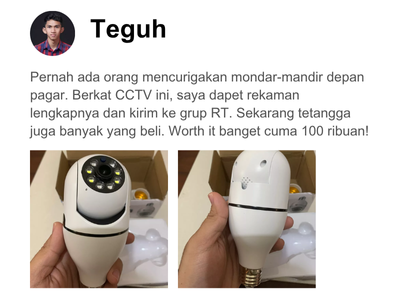
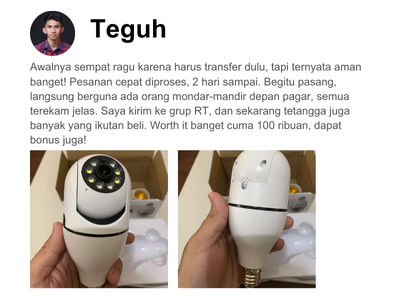
fix

Changed region(s): [[0.06, 0.21, 0.93, 0.48]]

diff --git a/src/components/FunnelPurchase.jsx b/src/components/FunnelPurchase.jsx
@@ -1,7 +1,7 @@
 import React, { useState } from "react";
 import { collection, addDoc, Timestamp } from "firebase/firestore";
 import { db } from "../firebase"; // path sesuai struktur file kamu
-const FunnelPurchase = ({ pixel, product, price , namaProduct }) => {
+const FunnelPurchase = ({ pixel, product, price, namaProduct }) => {
   const [name, setName] = useState("");
   const [whatsapp, setWhatsapp] = useState("");
   const [paymentMethod, setPaymentMethod] = useState("Bank Transfer");
@@ -126,7 +126,7 @@ const FunnelPurchase = ({ pixel, product, price , namaProduct }) => {
           />
         </div>
 
-        <h3 className="text-lg font-bold mb-3">Metode Pembayaran:</h3>
+        <h3 className="text-lg font-bold mb-2">Metode Pembayaran:</h3>
         <div className="mb-4">
           {["Bank Transfer", "COD"].map((method) => (
             <div
@@ -145,7 +145,7 @@ const FunnelPurchase = ({ pixel, product, price , namaProduct }) => {
               />
               <label
                 id="metodePayments"
-                className="cursor-pointer grid items-center"
+                className="cursor-pointer grid items-center relative"
               >
                 <img
                   src={`/images/funnel/${
@@ -154,19 +154,19 @@ const FunnelPurchase = ({ pixel, product, price , namaProduct }) => {
                   alt={method}
                   className="w-12 h-12 object-contain"
                 />
-                <span className="font-medium">
+                <span className="font-medium -mt-2">
                   {method === "COD" ? "Bayar di Tempat" : "Bank Transfer"}
                 </span>
                 {/* ✨ Badge Rekomendasi untuk Transfer */}
                 {method === "Bank Transfer" && (
-                  <span className="inline-block bg-green-100 text-green-700 text-[11px] font-bold px-3 py-[2px] rounded-md shadow-sm border border-green-600 capitalize tracking-wide">
+                  <span className="inline-block bg-redto/10 text-redto text-[11px] font-bold px-3 py-[2px] rounded-md shadow-sm border border-redto/70 capitalize tracking-wide">
                     🎁 Dapat Bonus & Potongan Ongkir
                   </span>
                 )}
 
                 {method === "COD" && (
                   <span className="inline-block bg-gray-100 text-gray-600 text-[11px] font-bold px-3 py-[2px] rounded-md shadow-sm border border-gray-400 capitalize tracking-wide">
-                    ⚠ Hanya {namaProduct} (Tanpa Bonus)
+                    ⚠ Tanpa Bonus, Ongkir Normal
                   </span>
                 )}
               </label>

diff --git a/src/components/Cctv/Footer.jsx b/src/components/Cctv/Footer.jsx
@@ -69,10 +69,14 @@ const Footer = ({
           </p>
           <p className="text-lg">Harga Promo</p>
         </div>
-        <div className="text-center text-5xl font-bold" ref={promoRef}>
+        <div className="text-center text-5xl font-bold " ref={promoRef}>
           <h1 className="text-redto">
             Rp {Math.floor(currentValue).toLocaleString("id-ID")}
           </h1>
+        </div>
+        <div className="text-center text-sm">
+          <p className="font-bold">Transfer Sekarang Dapat :</p>
+          <p className="font-semibold ">Bonus Fitting + Potongan Ongkir + Prioritas Pengiriman</p>
         </div>
         <br />
         <div className="w-auto h-8 bg-gray-300 rounded overflow-hidden m-2">

diff --git a/src/components/Cctv/LandingPage.jsx b/src/components/Cctv/LandingPage.jsx
@@ -19,6 +19,10 @@ const CctvBohlam = () => {
   };
 
   const faqs = [
+		{
+			question:"Aman gak transfer dulu?",
+			answer: "Aman kak, rekening atas nama resmi & kami kasih garansi 7 hari tukar baru. Sudah ratusan customer transfer duluan ✅"
+		},
     {
       question: "Apakah CCTV ini harus pakai kabel?",
       answer:
